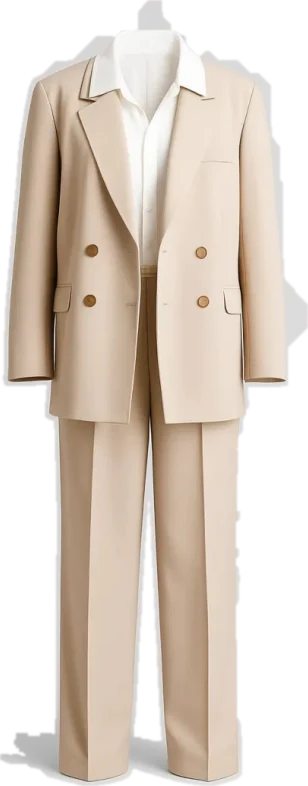
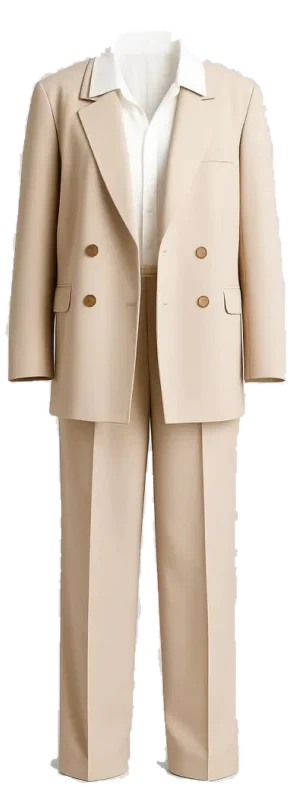
feat(weaveon): blade trail and thread bits, hit rings, clean suit edge
Scissors leave a short blade trail and throw thread bits on each snip.
Sewing holes and rhythm pads burst a fading ring and flare on a hit.
The suit photo loses its grey studio fringe.

diff --git a/src/fashion/modes/scissors.ts b/src/fashion/modes/scissors.ts
@@ -97,6 +97,10 @@ export class ScissorsMode implements Mode {
   private pair = false;
   private pairT = 0;
   private fabric = { x: 0, y: 0, w: 0, h: 0 };
+  /** 손마다 최근 위치(칼날 궤적). */
+  private trails: { x: number; y: number; t: number }[][] = [[], []];
+  /** 자를 때 튀는 실밥·천 부스러기. */
+  private bits: { x: number; y: number; vx: number; vy: number; a: number; va: number; life: number; c: string }[] = [];
 
   reset(W: number, H: number): void {
     this.W = W;
@@ -112,6 +116,8 @@ export class ScissorsMode implements Mode {
     this.nickT = 0;
     this.jamT = 0;
     this.cutAt = [-9, -9];
+    this.trails = [[], []];
+    this.bits = [];
     this.tol = Math.min(W, H) * TOL[this.level];
     this.step = Math.min(W, H) * 0.014;
     this.fabric = { x: W * 0.17, y: H * 0.07, w: W * 0.66, h: H * 0.86 };
@@ -148,6 +154,19 @@ export class ScissorsMode implements Mode {
 
   update(dt: number, t: number, hands: Hand[], fx: Fx): void {
     this.snipT = Math.max(0, this.snipT - dt);
+    hands.forEach((h, i) => {
+      const tr = (this.trails[i] ??= []);
+      if (h.on) tr.push({ x: h.x, y: h.y, t });
+      while (tr.length && (t - tr[0].t > 0.16 || tr.length > 12)) tr.shift();
+    });
+    for (const b of this.bits) {
+      b.life -= dt;
+      b.vy += 1400 * dt;
+      b.x += b.vx * dt;
+      b.y += b.vy * dt;
+      b.a += b.va * dt;
+    }
+    this.bits = this.bits.filter((b) => b.life > 0);
     if (this.fall) {
       this.fall.t += dt;
       if (this.fall.t > 1.2) this.fall = null;
@@ -222,6 +241,22 @@ export class ScissorsMode implements Mode {
       this.pieceOn += dt;
       const h = hands[this.activeHands[0]];
       fx.score(adv * 4 * (pair ? 2 : 1), h.x, h.y);
+      // 싹둑할 때마다 자른 자리에서 실밥이 튄다(천 색 + 안감 색)
+      for (const side of [0, 1] as const) {
+        if (t - this.lastSnip <= 0.16 || (side === 1 && best[1] <= 0)) continue;
+        const [px, py] = this.path[this.front(side)];
+        for (let k = 0; k < 5 && this.bits.length < 60; k++)
+          this.bits.push({
+            x: px,
+            y: py,
+            vx: (Math.random() - 0.5) * 420,
+            vy: -120 - Math.random() * 260,
+            a: Math.random() * Math.PI,
+            va: (Math.random() - 0.5) * 18,
+            life: 0.5 + Math.random() * 0.4,
+            c: Math.random() < 0.6 ? this.garment.color : this.garment.shade,
+          });
+      }
       this.snipT = 0.18;
       if (t - this.lastSnip > 0.16) {
         fx.sfx("snip");
@@ -436,6 +471,41 @@ export class ScissorsMode implements Mode {
       }
       ctx.restore();
     }
+
+    // 실밥
+    for (const b of this.bits) {
+      ctx.save();
+      ctx.globalAlpha = Math.min(1, b.life * 2.5);
+      ctx.translate(b.x, b.y);
+      ctx.rotate(b.a);
+      ctx.fillStyle = b.c;
+      ctx.fillRect(-7, -2, 14, 4);
+      ctx.strokeStyle = "rgba(20,14,30,0.4)";
+      ctx.lineWidth = 1.5;
+      ctx.strokeRect(-7, -2, 14, 4);
+      ctx.restore();
+    }
+    // 칼날 궤적: 자르는 중이면 밝은 민트, 아니면 은은하게
+    this.trails.forEach((tr, i) => {
+      if (tr.length < 2) return;
+      const hot = this.activeHands.includes(i) && this.snipT > 0;
+      // 밝은 천 위에서도 보이게: 짙은 청록 테 + 흰 심
+      ctx.save();
+      ctx.lineCap = "round";
+      for (const [col, wid] of hot
+        ? ([["32,150,140", 18], ["255,255,255", 7]] as const)
+        : ([["255,255,255", 8]] as const))
+        for (let k = 1; k < tr.length; k++) {
+          const f = k / tr.length;
+          ctx.strokeStyle = `rgba(${col},${(hot ? 0.85 : 0.3) * f})`;
+          ctx.lineWidth = wid * f;
+          ctx.beginPath();
+          ctx.moveTo(tr[k - 1].x, tr[k - 1].y);
+          ctx.lineTo(tr[k].x, tr[k].y);
+          ctx.stroke();
+        }
+      ctx.restore();
+    });
 
     hands.forEach((h, i) =>
       drawScissors(ctx, h, this.tol, this.activeHands.includes(i) ? this.snipT : 0, t),

diff --git a/src/fashion/modes/sewing.ts b/src/fashion/modes/sewing.ts
@@ -1,4 +1,5 @@
 import {
+  drawFlare,
   drawGarmentPhoto,
   drawHandGlow,
   propImage,
@@ -166,6 +167,8 @@ export class SewingMode implements Mode {
   private needleHand = 0;
   private demoPos: DemoHand | null = null;
   private box = { x: 0, y: 0, w: 1, h: 1 };
+  /** 찍은 구멍에서 퍼지는 빛 고리. */
+  private pops: { x: number; y: number; t0: number; tone: "gold" | "white" }[] = [];
 
   /** 솔기 위 한 점(무대 좌표). */
   private at(k: number): [number, number] {
@@ -188,6 +191,7 @@ export class SewingMode implements Mode {
     this.earlies = 0;
     this.earlyAt = -9;
     this.wasIn = [false, false];
+    this.pops = [];
     this.tol = Math.min(W, H) * TOL[this.level];
     this.tip = RING[this.level]
       ? "구멍 옆에서 기다렸다가, 원이 하얗게 닫힐 때 콕!"
@@ -303,6 +307,7 @@ export class SewingMode implements Mode {
             : `+${pts}`;
       fx.score(pts, hole.x, hole.y - this.tol * 0.9, label, this.fever() ? "gold" : "white");
       fx.burst(hole.x, hole.y, this.fever() || perfect ? 14 : 8, "gold");
+      this.pops.push({ x: hole.x, y: hole.y, t0: t, tone: perfect || this.fever() ? "gold" : "white" });
       if (timed) {
         if (perfect) this.perfects++;
         fx.stamp(
@@ -501,6 +506,20 @@ export class SewingMode implements Mode {
       ctx.lineTo(nxt.x, nxt.y);
       ctx.stroke();
       ctx.setLineDash([]);
+    }
+    // 콕! 찍은 자리에서 고리가 퍼지며 사라진다
+    this.pops = this.pops.filter((p) => t - p.t0 < 0.4);
+    for (const p of this.pops) {
+      const k = (t - p.t0) / 0.4;
+      ctx.save();
+      ctx.globalAlpha = 1 - k;
+      ctx.strokeStyle = TONE[p.tone];
+      ctx.lineWidth = 10 * (1 - k) + 2;
+      ctx.beginPath();
+      ctx.arc(p.x, p.y, this.tol * (0.6 + k * 1.1), 0, Math.PI * 2);
+      ctx.stroke();
+      ctx.restore();
+      drawFlare(ctx, p.x, p.y, this.tol * (1.4 - k * 0.6), p.tone, 1 - k);
     }
     for (const h of hands) drawNeedle(ctx, h, this.tol, this.flash, this.fever());
   }

diff --git a/src/fashion/modes/rhythm.ts b/src/fashion/modes/rhythm.ts
@@ -1,6 +1,7 @@
 import { BRANDS } from "../garments";
 import {
   drawArt,
+  drawFlare,
   drawGarmentPhoto,
   drawHandGlow,
   garmentPhoto,
@@ -390,6 +391,21 @@ export class RhythmMode implements Mode {
     }
 
     // 판정 글자
+    // 맞힌 패드에서 빛 고리가 터진다
+    for (const j of this.judge) {
+      if (j.text === "놓침" || j.t > 0.35) continue;
+      const p = this.pads[j.pad];
+      const k = j.t / 0.35;
+      ctx.save();
+      ctx.globalAlpha = 1 - k;
+      ctx.strokeStyle = TONE[j.tone];
+      ctx.lineWidth = 12 * (1 - k) + 2;
+      ctx.beginPath();
+      ctx.arc(p.x, p.y, this.R * (0.9 + k * 0.7), 0, Math.PI * 2);
+      ctx.stroke();
+      ctx.restore();
+      drawFlare(ctx, p.x, p.y, this.R * (1.3 - k * 0.5), j.tone, 1 - k);
+    }
     for (const j of this.judge) {
       const p = this.pads[j.pad];
       ctx.globalAlpha = 1 - j.t / 0.6;
